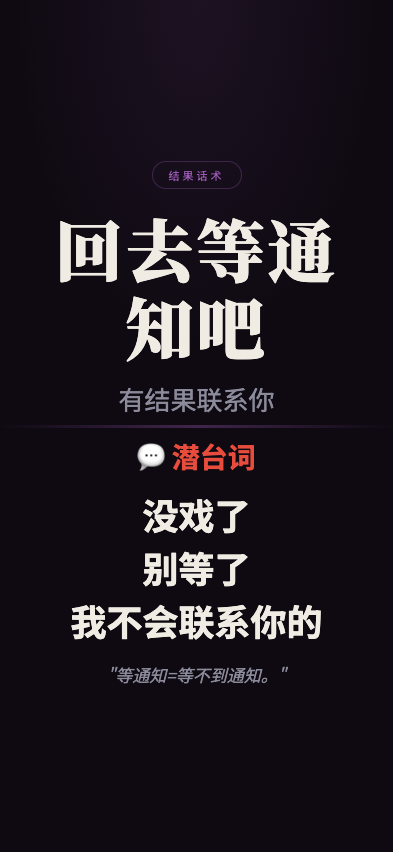
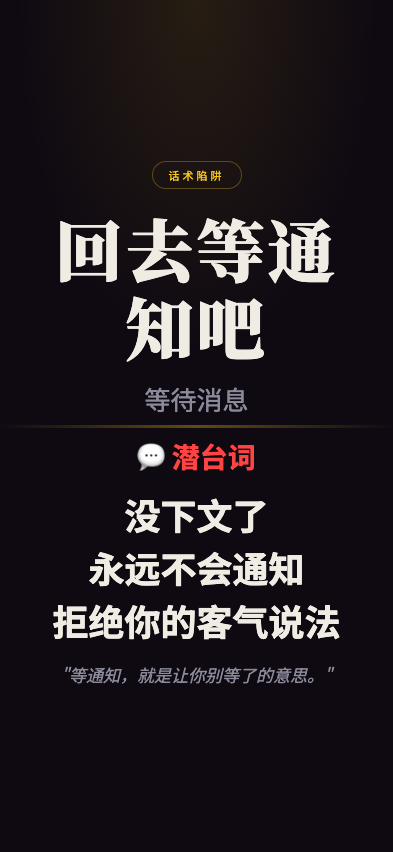
feat: 职场生存法则 screenshot - huiqudengtongzhiba

Changed region(s): [[0.1221, 0.5798, 0.855, 0.8239], [0.2443, 0.4577, 0.7634, 0.5188], [0.4275, 0.1831, 0.5802, 0.2136]]

diff --git a/wuliao-tools/tools/biz-speak/scenes/huiqudengtongzhiba.html b/wuliao-tools/tools/biz-speak/scenes/huiqudengtongzhiba.html
@@ -10,8 +10,8 @@
     --bg: #0f0a12;
     --text: #f0ece4;
     --text-dim: #8a8a9a;
-    --gold: #9b59b6;
-    --red: #e74c3c;
+    --gold: #f5c518;
+    --red: #ff4444;
   }
   * { margin:0; padding:0; box-sizing:border-box; }
   html, body { width:100%; height:100%; overflow:hidden; }
@@ -24,11 +24,11 @@
   }
   body::before {
     content:''; position:absolute; top:0; left:0; right:0; height:45%;
-    background:radial-gradient(ellipse at 50% 0%, rgba(155,89,182,0.1) 0%, transparent 65%);
+    background:radial-gradient(ellipse at 50% 0%, rgba(245,197,24,0.1) 0%, transparent 65%);
     pointer-events:none; z-index:0;
   }
   .top { flex:1; display:flex; flex-direction:column; align-items:center; justify-content:flex-end; padding:4px 28px 8px; position:relative; z-index:1; }
-  .tag { font-size:11px; letter-spacing:3px; color:var(--gold); border:1px solid rgba(155,89,182,0.3); padding:5px 16px; border-radius:50px; margin-bottom:20px; }
+  .tag { font-size:11px; letter-spacing:3px; color:var(--gold); border:1px solid rgba(245,197,24,0.3); padding:5px 16px; border-radius:50px; margin-bottom:20px; }
   .main-title { font-family:'Noto Serif SC'; font-size:68px; font-weight:900; text-align:center; line-height:1.15; letter-spacing:3px; min-width:0; overflow-wrap:break-word; max-width:92%; }
   .sub-title { font-size:26px; color:var(--text-dim); text-align:center; margin-top:14px; }
   .divider { width:100%; height:3px; background:linear-gradient(90deg,transparent,var(--gold),transparent); opacity:0.35; flex-shrink:0; position:relative; z-index:1; }
@@ -41,19 +41,19 @@
 </head>
 <body>
   <div class="top">
-    <div class="tag">结果话术</div>
+    <div class="tag">话术陷阱</div>
     <div class="main-title">回去等通知吧</div>
-    <div class="sub-title">有结果联系你</div>
+    <div class="sub-title">等待消息</div>
   </div>
   <div class="divider"></div>
   <div class="bottom">
     <div class="truth-label">💬 潜台词</div>
     <div class="truth-lines">
-      <div class="truth-line">没戏了</div>
-      <div class="truth-line">别等了</div>
-      <div class="truth-line">我不会联系你的</div>
+      <div class="truth-line">没下文了</div>
+      <div class="truth-line">永远不会通知</div>
+      <div class="truth-line">拒绝你的客气说法</div>
     </div>
-    <div class="quote">"等通知=等不到通知。"</div>
+    <div class="quote">"等通知，就是让你别等了的意思。"</div>
   </div>
 </body>
 </html>
